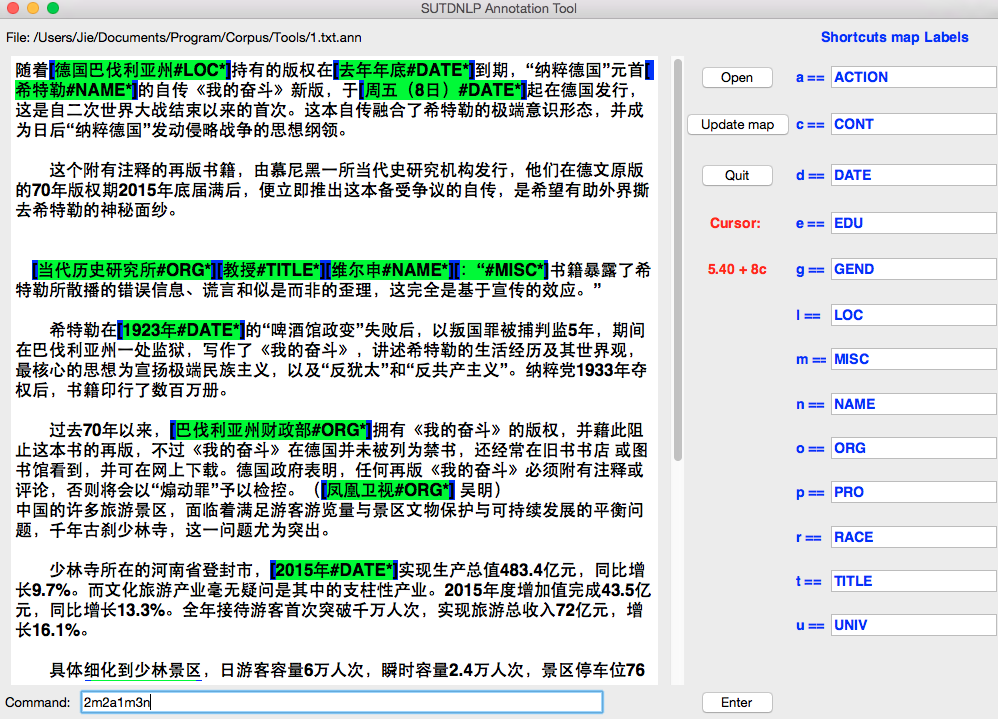
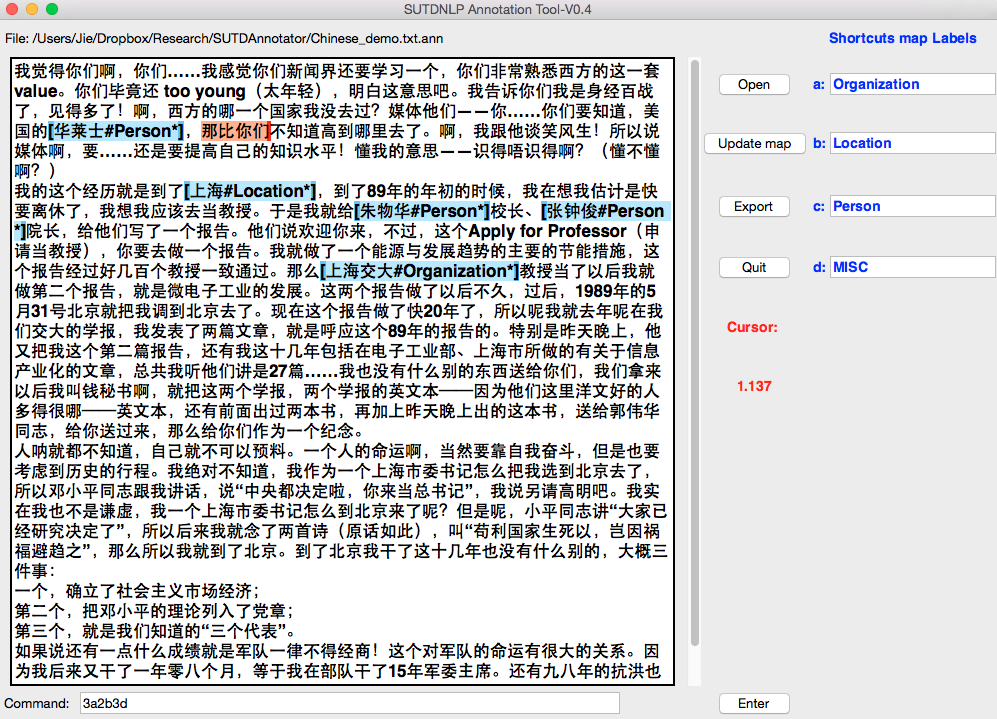
update demo and readme

diff --git a/README.md b/README.md
@@ -14,13 +14,13 @@ Interface demo:
 How to use?
 ====
 Just run the .py file.
-* Set your shortcut map in the right side of annotation interface, you can set other labels empty if the shortcut number is enough. For example: ***"a == ACTION, c == CONT"***
+* Set your shortcut map in the right side of annotation interface, you can leave other labels empty if the shortcut number is enough. For example: ***"a: ACTION, c: CONT"***
 * Click the ***"Update map"*** button to store the map setting
-* Click ***"Open"*** button and select your annotate file. (You may set your file name ended with .txt or .ann if possible)
+* Click ***"Open"*** button and select your input file. (You may set your file name ended with .txt or .ann if possible)
 
 This tool supports two ways of annotation:
-* Select the text and press the corresponding shortcut (i.e. `a` for label ***"Action"***).
-* Type the code at command line (at the bottom of the interface). For example, type `2a3c1a` end with `<Enter>`, it will annotate the following `2` character as type ***'a'(ACTION)***, the following `3` character as type ***'c'(CONT)***, then the following `1` character as  ***'a'(ACTION)***.
+* Select the text and press the corresponding shortcut (i.e. `c` for label ***"Person"***).
+* Type the code at command line (at the bottom of the interface). For example, type `2c3b1a` end with `<Enter>`, it will annotate the following `2` character as type ***'c'(Person)***, the following `3` character as type ***'b'(Location)***, then the following `1` character as  ***'a'(Organization)***.
 
 The annotated results will be stored synchronously. Annotated file is located at the same directory with origin file with the name of ***"origin name + .ann"***
 
@@ -28,7 +28,7 @@ The annotated results will be stored synchronously. Annotated file is located at
 Other features:
 =====
 * Type `ctrl + z` will undo  the most recent modification
-* Selected the annotated text, such as "[美国＃CONT*]", then press `q`, the annotated text will be recoverd to unannotate format (i.e. "美国").
+* Selected the annotated text, such as "[美国＃Location*]", then press `q`, the annotated text will be recoverd to unannotate format (i.e. "美国").
 * In the command entry, just type `Enter` without any command, the cursor in text will move to the head of next line. (You can monitor this through "Cursor").
 * The "Cursor" shows the current cursor position in text widget. `1.12+9c` means the `1st` line `12th` characters add with `9` character, which equals the `1st` line `21th` characters.
 * `Export` button will export the ***".ann"*** file as a identity name with ***".anns"*** in the same directory. The exported file list the content in sequence format.
@@ -36,6 +36,7 @@ Other features:
 
 Updating...
 ====
+* 2017-Apr-15, (V 0.4): update example and readme
 * 2017-Apr-13, (V 0.4): modify color; support setting color single line or whole file (may be slow in large file) (`self.colorAllChunk`)
 * 2017-Apr-12, (V 0.4): support BMES/BIO export (`self.tagScheme`); support segmented sentence export(`self.seged`); can save previous shortcut setting.
 * 2016-Mar-01, (V 0.3): fix export bug (bug: set space when sentence didn't include any effective label)
